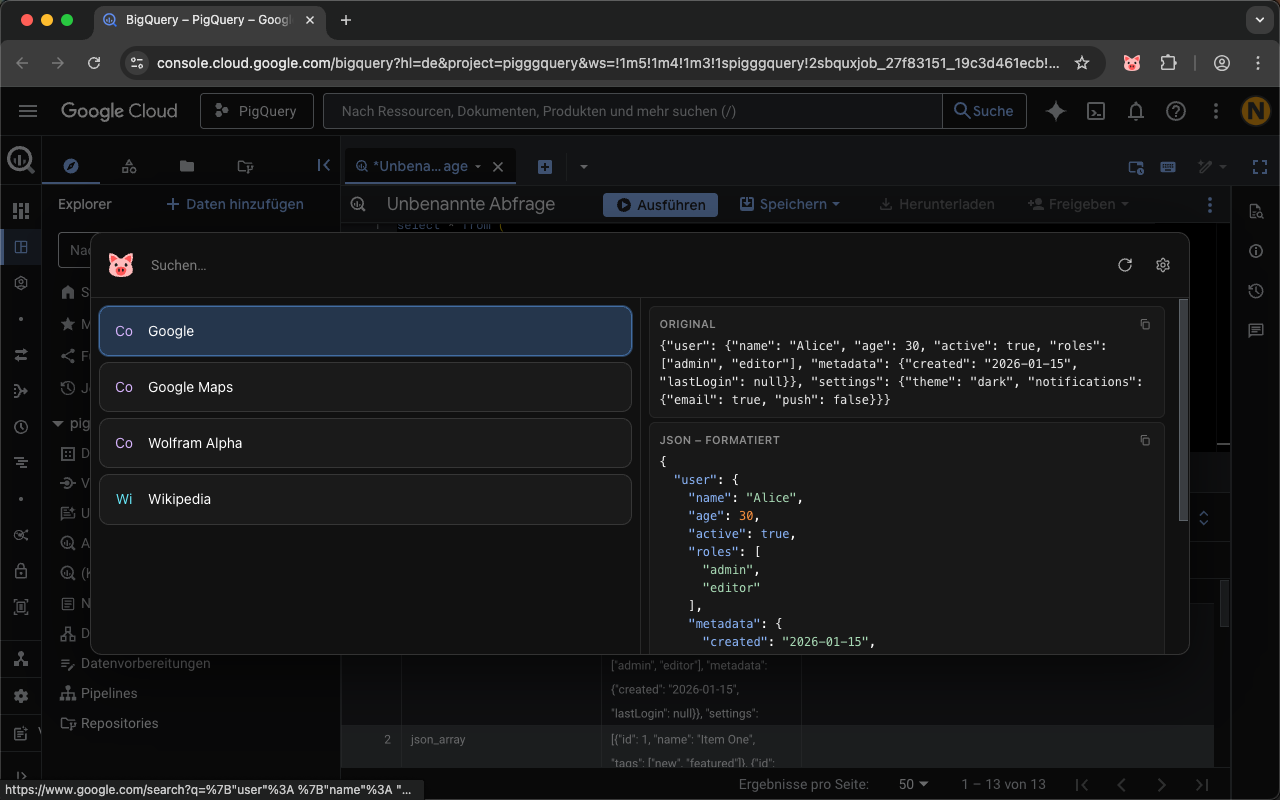
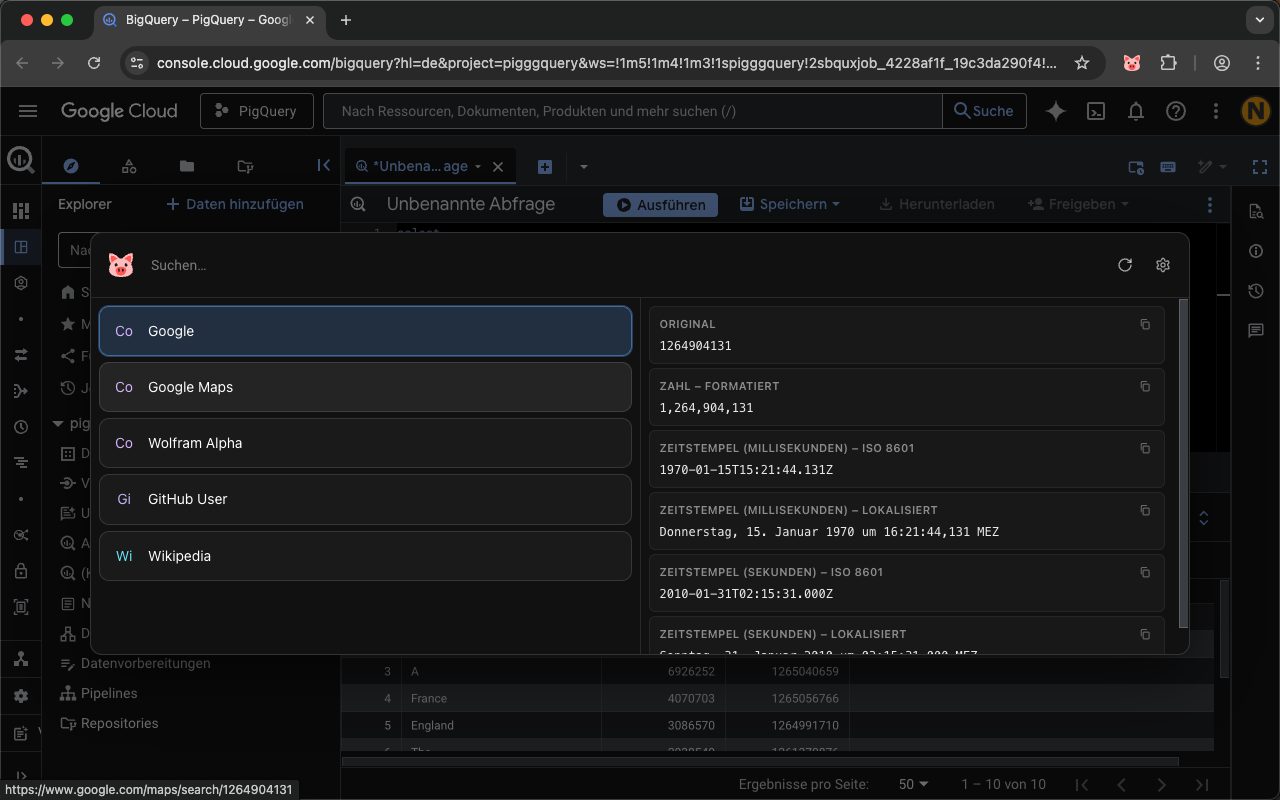
Improve video demo.

diff --git a/scripts/bot.js b/scripts/bot.js
@@ -72,32 +72,21 @@ async function startVideoRecording(filename) {
   await new Promise(resolve => setTimeout(resolve, 300));
   const { x, y, width, height } = await getChromeBounds();
 
-  // Ensure dimensions are even (required by ffmpeg)
-  const w = width % 2 === 0 ? width : width - 1;
-  const h = height % 2 === 0 ? height : height - 1;
-
-  const ffmpeg = spawn('ffmpeg', [
-    '-f', 'avfoundation',
-    '-capture_cursor', '1',
-    '-framerate', '30',
-    '-i', '1:none',  // Screen capture, no audio
-    '-vf', `crop=${w}:${h}:${x}:${y}`,
-    '-c:v', 'libx264',
-    '-preset', 'ultrafast',
-    '-pix_fmt', 'yuv420p',
-    '-y',
+  const screencapture = spawn('screencapture', [
+    '-v',
+    '-R', `${x},${y},${width},${height}`,
     filename
   ], {
     stdio: ['pipe', 'ignore', 'ignore']
   });
 
   await new Promise(resolve => setTimeout(resolve, 500));
-  return ffmpeg;
+  return screencapture;
 }
 
-async function stopVideoRecording(ffmpegProcess) {
-  ffmpegProcess.stdin.write('q');
-  await new Promise(resolve => ffmpegProcess.on('close', resolve));
+async function stopVideoRecording(screencaptureProcess) {
+  screencaptureProcess.kill('SIGINT');
+  await new Promise(resolve => screencaptureProcess.on('close', resolve));
 }
 
 async function openAction(lang) {
@@ -108,9 +97,6 @@ async function openAction(lang) {
 async function recordAction(lang) {
   const chromeProcess = await startChrome(getBigQueryUrl(lang));
   const [browser, page] = await connectToChrome();
-
-  console.log('Starting video recording...');
-  const ffmpegProcess = await startVideoRecording(`store/${lang}/demo.mp4`);
 
   await page.waitForSelector('.view-lines', { timeout: 30000 });
   await page.waitForTimeout(1000);
@@ -125,8 +111,8 @@ async function recordAction(lang) {
 
   // Get the new options tab
   const context = browser.contexts()[0];
-  const pages = context.pages();
-  const optionsPage = pages[pages.length - 1];
+  let pages = context.pages();
+  let optionsPage = pages[pages.length - 1];
 
   // Remove all existing sources
   await optionsPage.waitForSelector('#urlInput', { timeout: 5000 });
@@ -135,41 +121,107 @@ async function recordAction(lang) {
     await optionsPage.waitForTimeout(300);
   }
 
+  // Close options and dismiss modal before recording
+  await optionsPage.close();
+  await page.waitForTimeout(500);
+  await page.keyboard.press('Escape');
+  await page.waitForTimeout(500);
+
+  // Start video recording
+  console.log('Starting video recording...');
+  const videoPath = `store/${lang}/demo.mp4`;
+  await execPromise(`rm -f ${videoPath}`);
+  const ffmpegProcess = await startVideoRecording(videoPath);
+  await page.waitForTimeout(2000);
+
+  // Enter query into the editor
+  await page.keyboard.type('select', { delay: 100 });
+  await page.waitForTimeout(100);
+  await page.keyboard.press('Enter');
+  await page.waitForTimeout(100);
+  await page.keyboard.type('s.word, sum(s.word_count) as count, max(w.timestamp) as timestamp', { delay: 100 });
+  await page.waitForTimeout(100);
+  await page.keyboard.press('Enter');
+  await page.waitForTimeout(100);
+  await page.keyboard.type('from ', { delay: 100 });
+  await page.waitForTimeout(500);
+
+  // Open the modal again
+  await page.keyboard.press('Control+Shift+KeyY');
+  await page.waitForSelector('.pig-modal', { timeout: 5000 });
+  await page.waitForTimeout(2000);
+
+  // Click settings icon to open options page
+  await page.click('.pig-modal-settings');
+  await page.waitForTimeout(2000);
+
+  // Get the new options tab
+  pages = context.pages();
+  optionsPage = pages[pages.length - 1];
+
   // Take a screenshot of empty options
+  await optionsPage.waitForSelector('#urlInput', { timeout: 5000 });
   await screenshot(`store/${lang}/pigquery-1.png`);
 
   // Enter URL in the input and press Enter
   await optionsPage.fill('#urlInput', 'https://raw.githubusercontent.com/nicholasdower/pigquery/refs/heads/master/samples/samples.yaml');
+  await page.waitForTimeout(2000);
   await optionsPage.press('#urlInput', 'Enter');
 
   // Wait for source card to appear
   await optionsPage.waitForSelector('.source-card', { timeout: 10000 });
-  await optionsPage.waitForTimeout(500);
+  await optionsPage.waitForTimeout(2000);
 
   // Close the options tab to return to BigQuery
   await optionsPage.close();
+  await page.waitForTimeout(2000);
+
+  // Type "shake" to filter results, then press down until we find "shakespeare"
+  await page.click('.pig-modal-input');
+  await page.type('.pig-modal-input', 'shake', { delay: 100 });
+  await page.waitForTimeout(500);
+  while (true) {
+    const activeText = await page.$eval('.pig-modal-item.active .pig-modal-item-name', el => el.textContent);
+    if (activeText === 'shakespeare') break;
+    await page.keyboard.press('ArrowDown');
+    await page.waitForTimeout(300);
+  }
+
+  // Click the item with name "shakespeare"
+  await page.click('.pig-modal-item-name:has-text("shakespeare")');
   await page.waitForTimeout(500);
 
-  // Verify pig-modal-item exists
-  await page.waitForSelector('.pig-modal-item', { timeout: 5000 });
+  // Complete query into the editor
+  await page.keyboard.press('Enter');
+  await page.keyboard.type('join ', { delay: 100 });
+  await page.waitForTimeout(500);
 
-  // Press down until we find "shakespeare words in wikipedia"
+  // Open the modal again
+  await page.keyboard.press('Control+Shift+KeyY');
+  await page.waitForSelector('.pig-modal', { timeout: 5000 });
+  await page.waitForTimeout(1000);
+
+  // Type "join" to filter results, then press down until we find "wikipedia to shakespeare"
   await page.click('.pig-modal-input');
+  await page.type('.pig-modal-input', 'join', { delay: 100 });
+  await page.waitForTimeout(500);
   while (true) {
-    await page.keyboard.press('ArrowDown');
-    await page.waitForTimeout(100);
     const activeText = await page.$eval('.pig-modal-item.active .pig-modal-item-name', el => el.textContent);
-    if (activeText === 'shakespeare words in wikipedia') break;
+    if (activeText === 'wikipedia to shakespeare') break;
+    await page.keyboard.press('ArrowDown');
+    await page.waitForTimeout(300);
   }
 
   await screenshot(`store/${lang}/pigquery-2.png`);
 
-  // Clear and type "formatter demo"
-  await page.fill('.pig-modal-input', 'formatter demo');
+  // Click the item with name "wikipedia to shakespeare"
+  await page.click('.pig-modal-item-name:has-text("wikipedia to shakespeare")');
   await page.waitForTimeout(500);
 
-  // Click the item with name "formatter demo"
-  await page.click('.pig-modal-item-name:has-text("formatter demo")');
+  // Complete query into the editor
+  await page.keyboard.press('Enter');
+  await page.waitForTimeout(100);
+  await page.keyboard.type('group by s.word order by 2 desc limit 10;', { delay: 100 });
   await page.waitForTimeout(500);
 
   // Run the query with command+enter
@@ -181,18 +233,50 @@ async function recordAction(lang) {
 
   // Focus the table with ctrl+shift+u
   await page.keyboard.press('Control+Shift+KeyU');
-  await page.waitForTimeout(500);
+  await page.waitForTimeout(1000);
 
   // Hit right arrow twice to change focused cell
   await page.keyboard.press('ArrowRight');
+  await page.waitForTimeout(300);
+  await page.keyboard.press('ArrowRight');
+  await page.waitForTimeout(300);
   await page.keyboard.press('ArrowRight');
   await page.waitForTimeout(300);
 
   // Hit enter to open the snippets modal
   await page.keyboard.press('Enter');
-  await page.waitForTimeout(1000);
+  await page.waitForTimeout(3000);
 
-  await screenshot(`screenshots/${lang}/pigquery-3.png`);
+  await screenshot(`store/${lang}/pigquery-3.png`);
+
+  // Hit escape to return to results then open the modal again
+  await page.keyboard.press('Escape');
+  await page.waitForTimeout(500);
+  await page.keyboard.press('ArrowDown');
+  await page.waitForTimeout(300);
+  await page.keyboard.press('ArrowDown');
+  await page.waitForTimeout(300);
+  await page.keyboard.press('ArrowDown');
+  await page.waitForTimeout(300);
+  await page.keyboard.press('ArrowLeft');
+  await page.waitForTimeout(300);
+  await page.keyboard.press('ArrowLeft');
+  await page.waitForTimeout(300);
+  await page.keyboard.press('Enter');
+  await page.waitForTimeout(3000);
+
+  // Type "wiki" to filter snippets then go to Wikipedia
+  await page.click('.pig-modal-input');
+  await page.type('.pig-modal-input', 'wiki', { delay: 100 });
+  await page.waitForTimeout(500);
+  await page.keyboard.press('Enter');
+  await page.waitForTimeout(3000);
+
+  // Get the new tab and close it
+  pages = context.pages();
+  wikiPage = pages[pages.length - 1];
+  await wikiPage.close();
+  await page.waitForTimeout(3000);
 
   console.log('Stopping video recording...');
   await stopVideoRecording(ffmpegProcess);

diff --git a/src/content.js b/src/content.js
@@ -1149,6 +1149,7 @@ function openPopup(getOptions, onOptionSelected, getHasErrors, contentOrGetter) 
 
   overlayEl.appendChild(modalEl);
   document.body.appendChild(overlayEl);
+  ignoreMouseTemporarily();
   renderList();
   updateContentPanel();
 
